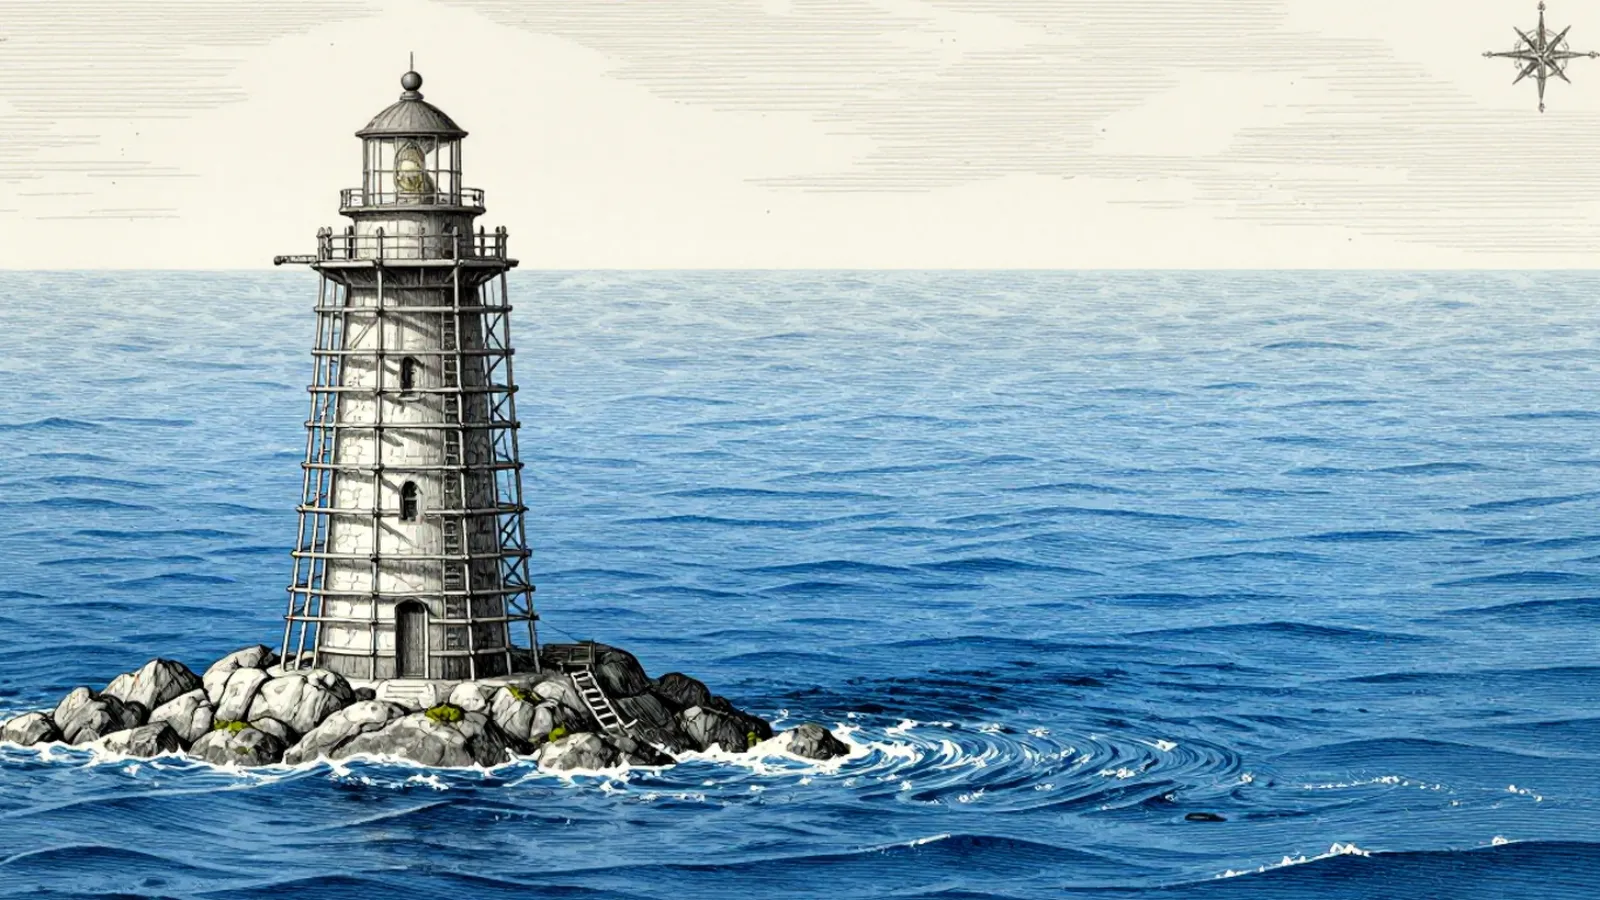
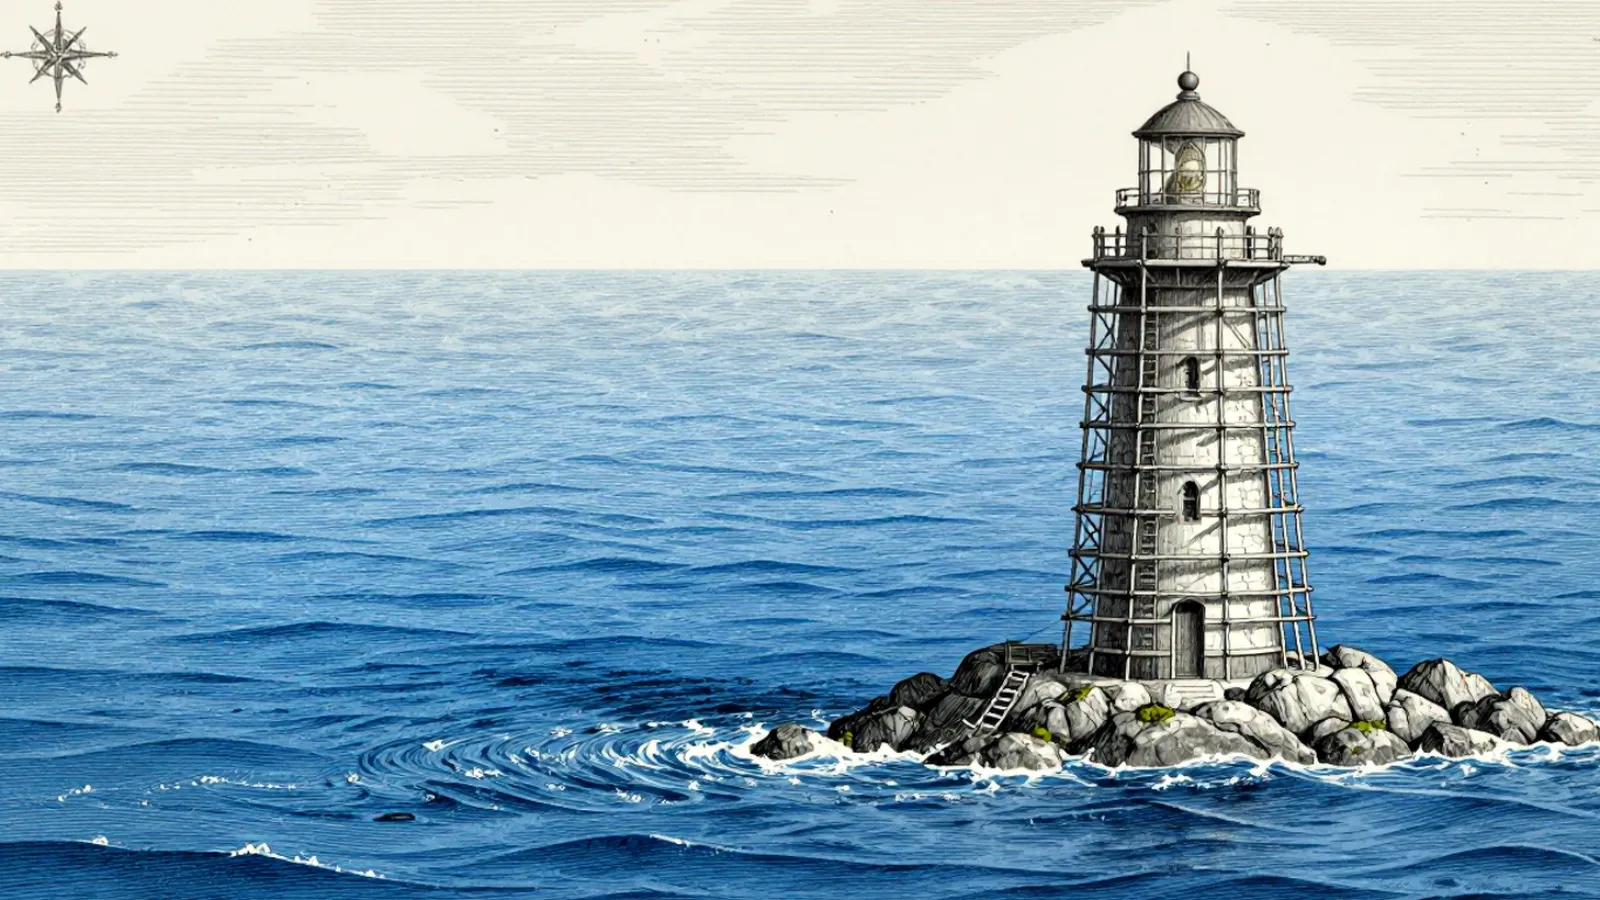
feat(portal): portadas 06 rehechas, estado vacío (27) y aviso de error (28)
Portadas por estado rehechas por el generador (faro en obra, boya, barco de
papel) en lugar de los tres faros provisionales. La 27 entra en el aviso vacío
del muro y de novedades (AvisoVacio.tsx, sustituye a .vacio-carta) y la 28 en
AvisoError.tsx (sustituye al monograma), a 240 px y enmarcadas como la 404.
Las fuentes de src/img/ van ahora por proyecto (docs/marca.md al día).

Queda: series 25 y 26 en espera (faltan 25d, 26b y 26c; la 26a con un solo
grosor); versiones oscuras de 27 y 28 en cola. Pendiente de /code-review.

Check: npm run check en verde (vitest 202/202).

Siguiente: /code-review de este cambio y fase 3 antes de main

diff --git a/src/estilos/global.css b/src/estilos/global.css
@@ -892,25 +892,12 @@ button {
   border: 1px dashed var(--borde);
 }
 
-/* Aviso vacío de las listas (muro, novedades): las isobatas de la carta, muy tenues, como fondo. */
-.vacio-carta {
-  position: relative;
-  isolation: isolate;
-  overflow: hidden;
-  padding: 72px 40px;
-  /* En tinta y no en --texto-3: donde una isobata cruza el texto, sigue por encima de 4,5:1 en los dos temas. */
-  color: var(--texto);
-}
-
-.vacio-carta::before {
-  content: '';
-  position: absolute;
-  inset: 0;
-  z-index: -1;
-  background: var(--celeste);
-  opacity: 0.35;
-  -webkit-mask: url('/marca/isobatas.svg') center / cover no-repeat;
-  mask: url('/marca/isobatas.svg') center / cover no-repeat;
+/* Aviso vacío de las listas (muro, novedades): la ventana en blanco sobre la carta (recurso 27) encima del texto. */
+.vacio-ilustrado {
+  display: flex;
+  flex-direction: column;
+  align-items: center;
+  gap: 16px;
 }
 
 /* ---------- Tarjetas de proyecto ---------- */
@@ -2327,8 +2314,10 @@ button {
   color: var(--texto-2);
 }
 
-/* Ilustraciones sobre papel (404, formularios, equipo): enmarcadas, a su tamaño o menos. */
+/* Ilustraciones sobre papel (404, error de carga, lista vacía, formularios, equipo): enmarcadas, a su tamaño o menos. */
 .no-encontrado-imagen,
+.aviso-error-imagen,
+.vacio-imagen,
 .formulario-ilustracion,
 .formulario-listo-imagen,
 .equipo-banda {
@@ -2346,8 +2335,13 @@ button {
   margin: 4px 0 24px;
 }
 
+.aviso-error-imagen,
+.vacio-imagen,
 .formulario-listo-imagen {
   max-width: 240px;
+}
+
+.formulario-listo-imagen {
   margin-bottom: 16px;
 }
 

diff --git a/src/components/AvisoError.tsx b/src/components/AvisoError.tsx
@@ -1,6 +1,6 @@
-import { MarcaGV } from './Logo';
+import { ruta } from '../data/proyectos';
 
-/** Aviso de fallo de carga (no «no existe»): título, texto y un botón que vuelve a intentarlo. */
+/** Aviso de fallo de carga (no «no existe»): el cable desconectado (recurso 28), título, texto y un botón que vuelve a intentarlo. */
 export function AvisoError({
   titulo,
   texto,
@@ -15,7 +15,13 @@ export function AvisoError({
   return (
     <section className="seccion no-encontrado" role="alert">
       <div className="contenedor">
-        <MarcaGV tamano={64} />
+        <img
+          className="aviso-error-imagen"
+          src={ruta('marca/aviso-error.webp')}
+          alt=""
+          width={480}
+          height={360}
+        />
         <h1>{titulo}</h1>
         <p>{texto}</p>
         <button type="button" className="boton boton-primario" onClick={alPulsar}>

diff --git a/src/pages/Novedades.tsx b/src/pages/Novedades.tsx
@@ -2,6 +2,7 @@ import { estiloAcento } from '../data/tonos';
 import { Fragment, useEffect, useState } from 'react';
 import { useLocation, useNavigate, useSearchParams } from 'react-router-dom';
 import { Link } from '../components/Enlace';
+import { AvisoVacio } from '../components/AvisoVacio';
 import { Separador } from '../components/Separador';
 import { entradas } from '../data/novedades';
 import { buscarProyecto, proyectos, ruta } from '../data/proyectos';
@@ -132,7 +133,7 @@ export function Novedades() {
             )}
           </>
         ) : (
-          <p className="vacio vacio-carta">{t('novedades.vacio')}</p>
+          <AvisoVacio texto={t('novedades.vacio')} />
         )}
       </div>
     </section>

diff --git a/src/pages/Muro.tsx b/src/pages/Muro.tsx
@@ -1,5 +1,6 @@
 import { useEffect } from 'react';
 import { useLocation, useNavigate, useSearchParams } from 'react-router-dom';
+import { AvisoVacio } from '../components/AvisoVacio';
 import { Publicacion } from '../components/Publicacion';
 import { publicaciones, publicacionesDe } from '../data/muro';
 import { proyectos } from '../data/proyectos';
@@ -67,7 +68,7 @@ export function Muro() {
             ))}
           </div>
         ) : (
-          <p className="vacio vacio-carta">{t('muro.vacio')}</p>
+          <AvisoVacio texto={t('muro.vacio')} />
         )}
       </div>
     </section>

diff --git a/src/components/AvisoVacio.tsx b/src/components/AvisoVacio.tsx
@@ -1,0 +1,17 @@
+import { ruta } from '../data/proyectos';
+
+/** Aviso de lista vacía (muro, novedades): la ventana de editor en blanco sobre la carta (recurso 27) y el texto. */
+export function AvisoVacio({ texto }: { texto: string }) {
+  return (
+    <div className="vacio vacio-ilustrado">
+      <img
+        className="vacio-imagen"
+        src={ruta('marca/estado-vacio.webp')}
+        alt=""
+        width={480}
+        height={360}
+      />
+      <p>{texto}</p>
+    </div>
+  );
+}

diff --git a/docs/marca.md b/docs/marca.md
@@ -165,8 +165,8 @@ La vista previa (`og`) de un proyecto es siempre `tools/og/fuentes/<slug>/og-fue
 | 15 (Developer) | 2026-11-11 | `public/proyectos/galivelop-developer/proxima.webp` (720×405, del barco de papel sobre mar con olas, 1600×900, que llegó como `portada-desarrollo.webp`) | `imagen` de su entrada en `proximamente.json`. La persona (2026-11-11): ese barco es la portada de Developer; sustituye a la terminal con la rama y el anillo que pedía la hoja |
 | 17 | 2026-11-11 | `public/marca/marco-retrato.webp` (400×400, máscara: blanco con transparencia, recortado al cuadro; del PNG q539, el trazador rompe sus marcas) | Alrededor de la foto o las iniciales en `/equipo` y en la página de cada miembro (`Retrato.tsx`); se pinta con `--texto`, así vale en los dos temas |
 | 23 (workflow) | 2026-11-11 | `public/proyectos/galivelop-workflow/icono.svg` (SVG del generador, `viewBox` recortado al dibujo) | `icono` de su ficha: cabecera, tarjeta y muro |
-| 7a, 8a, 8d, 9c | 2026-11-11 | `src/assets/iconos/codigo.svg`, `candado.svg`, `ramas-unidas.svg`, `terminal.svg` (SVG del generador pasados por `tools/marca/limpiar-iconos.cjs`) | Inicio, en lugar del icono de lucide (la persona, 2026-11-11: «aplícalos ya, aunque no estén todos»): 7a en la línea «Del prototipo al producto» (la hoja no le daba línea: es la que más se parece a una app; hay 5 líneas y la serie 7 es de 4), 8a en el valor 1, 8d en el valor 4 y 9c en la vía «Aprende con nosotros»; el resto de cada serie llegó el 2026-11-12 (filas siguientes). **7a, sin uso desde el 2026-11-12:** la 7b cuadrada ocupa su línea y `codigo.svg` se quitó de `src/assets/iconos/` (el original sigue en `src/img/`); vuelve el mismo día en «ia-local» (fila «7a (vuelve)») |
-| 6 | 2026-11-12 | `public/marca/portada-desarrollo.webp`, `portada-diseno.webp` y `portada-publicado.webp` (1600×900, `cwebp -q 80`). Los tres son un faro: en desarrollo, con andamios; en diseño, una plataforma de roca con un trípode; en publicado, el faro encendido de noche | Fondo velado de la cabecera de las fichas con `cabecera: "color"` (hoy Galivelop-workflow y Galivelop-image-generator), según el `estado` del proyecto (`PORTADA_ESTADO` de `src/data/marca.ts`, con su test; `.cabecera-velada`). Las tarjetas no la usan: esos proyectos llevan su propia portada. Sustituye al celeste con isobatas, que queda solo para `cabecera: "captura"`. **Faro, fuera de la regla «el mar pone el dónde»:** el generador entregó faros en vez de la ventana de editor pedida; **provisionales** (la persona, 2026-11-12: «por ahora publicamos lo que tenemos y le pido la corrección al generador»); se pidieron rehechas como en la fila 6 de la tabla B (faro en obra, boya y barco de papel) y sustituirán a estas al llegar |
+| 7a, 8a, 8d, 9c | 2026-11-11 | `src/assets/iconos/codigo.svg`, `candado.svg`, `ramas-unidas.svg`, `terminal.svg` (SVG del generador pasados por `tools/marca/limpiar-iconos.cjs`) | Inicio, en lugar del icono de lucide (la persona, 2026-11-11: «aplícalos ya, aunque no estén todos»): 7a en la línea «Del prototipo al producto» (la hoja no le daba línea: es la que más se parece a una app; hay 5 líneas y la serie 7 es de 4), 8a en el valor 1, 8d en el valor 4 y 9c en la vía «Aprende con nosotros»; el resto de cada serie llegó el 2026-11-12 (filas siguientes). **7a, sin uso desde el 2026-11-12:** la 7b cuadrada ocupa su línea y `codigo.svg` se quitó de `src/assets/iconos/` (el original sigue en `src/img/portal/svg/`); vuelve el mismo día en «ia-local» (fila «7a (vuelve)») |
+| 6 | 2026-11-12 | `public/marca/portada-desarrollo.webp`, `portada-diseno.webp` y `portada-publicado.webp` (1600×900, `cwebp -q 80`). Los tres son un faro: en desarrollo, con andamios; en diseño, una plataforma de roca con un trípode; en publicado, el faro encendido de noche | Fondo velado de la cabecera de las fichas con `cabecera: "color"` (hoy Galivelop-workflow y Galivelop-image-generator), según el `estado` del proyecto (`PORTADA_ESTADO` de `src/data/marca.ts`, con su test; `.cabecera-velada`). Las tarjetas no la usan: esos proyectos llevan su propia portada. Sustituye al celeste con isobatas, que queda solo para `cabecera: "captura"`. **Faro, fuera de la regla «el mar pone el dónde»:** el generador entregó faros en vez de la ventana de editor pedida; **provisionales** (la persona, 2026-11-12: «por ahora publicamos lo que tenemos y le pido la corrección al generador»); se pidieron rehechas como en la fila 6 de la tabla B (faro en obra, boya y barco de papel); llegaron el mismo día (fila «6 (rehechas)») |
 | 12 | 2026-11-12 | `public/marca/separador.webp` (1200×100, de `12-separador-transparente.png`) | Inicio: antes de «Próximamente» (sección Proyectos) y antes de «Es para ti si…» (sección Participa), al ancho del contenedor; en el tema oscuro, invertido por CSS (`.separador`) |
 | 7c, 7d, 7e | 2026-11-12 | `src/assets/iconos/documento-check.svg`, `compas.svg`, `mundos.svg` (pasados por `limpiar-iconos.cjs`) | Inicio, líneas de trabajo: «informacion» (documento con visto), «metodo» (compás) y «mundos» |
 | 8d (rehecha) | 2026-11-12 | `src/assets/iconos/ramas-unidas.svg` (la 8d de la víspera se sustituye por una más ancha, dos ramas que se unen en un nodo: la anterior se veía más fina que sus vecinas) | Inicio, valor 4 de «Cómo trabajamos» |
@@ -175,10 +175,13 @@ La vista previa (`og`) de un proyecto es siempre `tools/og/fuentes/<slug>/og-fue
 | 7a (vuelve) | 2026-11-12 | `src/assets/iconos/codigo.svg` (recuperado de d3cf1c8^) | Inicio, línea «ia-local», en lugar de `Cpu` de lucide: una serie se usa entera (hoja del generador). La hoja pedía la 7b, pero esta ya ocupa «Del prototipo al producto»; la 7a, sin uso, completa la serie sin repetir |
 | 9a, 9b | 2026-11-12 | `src/assets/iconos/ramas.svg`, `bombilla.svg` | Inicio, «Participa»: la vía «Únete» (ramas) y la de «Propón» (bombilla) |
 | 14 | 2026-11-12 | `src/assets/iconos/implantacion.svg` (salía de «sin uso»; caja cuya tapa se despliega en ventana) | Inicio, aviso «¿Tienes un proyecto propio?» (`proyecto-propio`), en lugar de `MessageSquare` |
+| 6 (rehechas) | 2026-11-12 | `public/marca/portada-desarrollo.webp`, `portada-diseno.webp` y `portada-publicado.webp` (1600×900, `cwebp -q 80`): faro en obra con andamios (desarrollo), boya con su fondeo (diseño) y barco de papel con banderín alga (publicado) | Las mismas cabeceras veladas de la fila 6; sustituyen a los tres faros provisionales (los originales, en `src/img/portal/sin-uso/`) |
+| 27 | 2026-11-12 | `public/marca/estado-vacio.webp` (480×360, se muestra a 240) | Aviso vacío del muro y de novedades (`AvisoVacio.tsx`), en lugar de las isobatas tenues de `.vacio-carta` |
+| 28 | 2026-11-12 | `public/marca/aviso-error.webp` (480×360, se muestra a 240) | `AvisoError.tsx` (fallo de carga de la ficha o de una página), en lugar del monograma |
 
 Por CSS, sin imagen (cancelados en el generador, 2026-11-11): 11, 16, 20 y 21 (el pie, cerúleo liso); la 22 no sale de gimg y el fondo sigue en color plano. La 14 se rehízo y llegó el 2026-11-12.
 
-Las imágenes llegan a `src/img/` (fuera de git) y se convierten aquí con `cwebp -q 80`. Las de papel (10, 18) aún no
+Las imágenes llegan a `src/img/<slug>/` (fuera de git; `portal` para las de la marca), con sus SVG en `svg/` y lo descartado en `sin-uso/`, y se convierten aquí con `cwebp -q 80`. **En espera, serie incompleta** (una serie se usa entera): 25a, 25b, 25c y 25e (falta 25d, «Cómo está hecho») y 26a (faltan 26b y 26c; el visto de la 26a es más grueso que su círculo, pedir un solo grosor). Las de papel (10, 18) aún no
 tienen versión para el tema oscuro: se muestran enmarcadas tal cual. Las versiones oscuras de 10, 18, 19, 27 y 28 están
 en cola en el generador: fondo transparente o sobre el `--celeste-hondo` oscuro (`#0b5e88`), nunca sobre el papel claro.
 

diff --git a/docs/handoff.md b/docs/handoff.md
@@ -6,10 +6,10 @@ Se actualiza en cada commit. Reglas en [`CLAUDE.md`](../CLAUDE.md).
 
 | | |
 |---|---|
-| **Actualizado** | 2026-11-12 (hoja del generador del 2026-11-12 aplicada en `ccr-47f8fddd-o5ek6p`, encima de «reutilizar lo ya generado») |
+| **Actualizado** | 2026-11-12 (portadas 06 rehechas, 27 y 28 aplicadas en `ccr-47f8fddd-o5ek6p`) |
 | **Rama de trabajo** | `claude/galivelop-dev-portal-1h89ci` (la que publica la tarea semanal); esta sesión, `ccr-47f8fddd-o5ek6p` (al día con `main`, 2026-11-12) |
-| **Tarea en curso** | Ninguna: «reutilizar lo generado» y la hoja del generador del 2026-11-12 están en `main` (c19d6af). Presupuesto de compactaciones: 1 (se gastaron 2) |
-| **Siguiente paso** | `/clear`. Luego, cuando la persona traiga del generador las portadas 06 rehechas y el pedido nuevo (25-30, 10b, versiones oscuras de 10, 18, 19, 27 y 28), aplicarlos según `docs/marca.md`. Hoja del generador corregida en `32e7b44`: quedan 4 frases, ya pedidas |
+| **Tarea en curso** | Imágenes del generador del 2026-11-12 (tarde): 06 rehechas, 27 y 28 aplicadas; pendiente de `/code-review` (fase 1) y de `main` cuando la persona lo diga. Las fuentes en `src/img/` van ahora por proyecto (`src/img/<slug>/`, con `svg/` y `sin-uso/`). Presupuesto de compactaciones: 1 |
+| **Siguiente paso** | Fase 1 (`/code-review`) de este cambio y fase 3. Luego, cuando lleguen del generador 25d, 26b y 26c (la 26a con un solo grosor), aplicar las series 25 y 26 (fuentes ya en `src/img/portal/`); siguen en cola 29, 30, 10b y las versiones oscuras de 10, 18, 19, 27 y 28 |
 | **En `main`** | **Reutilizar lo generado y hoja del generador del 2026-11-12** (c19d6af, 2026-11-12, la persona: «si»; fases 1, 2 y 3 hechas, retro `docs/records/retro-2026-11-12-hoja-generador.md` aprobada; CI en verde). Lo anterior, en «Hecho» y en `git log origin/main`. https://zeldris.github.io/Portal-Galivelop/ |
 | **Tests** | `npm run check`: tsc 0 errores, `prettier --check` de `src/`, vitest 202/202 (23 archivos) y `tools/qa/tests/test-ganchos.sh`. `npm run build` correcto (42 páginas estáticas, sitemap, robots y llms) |
 
